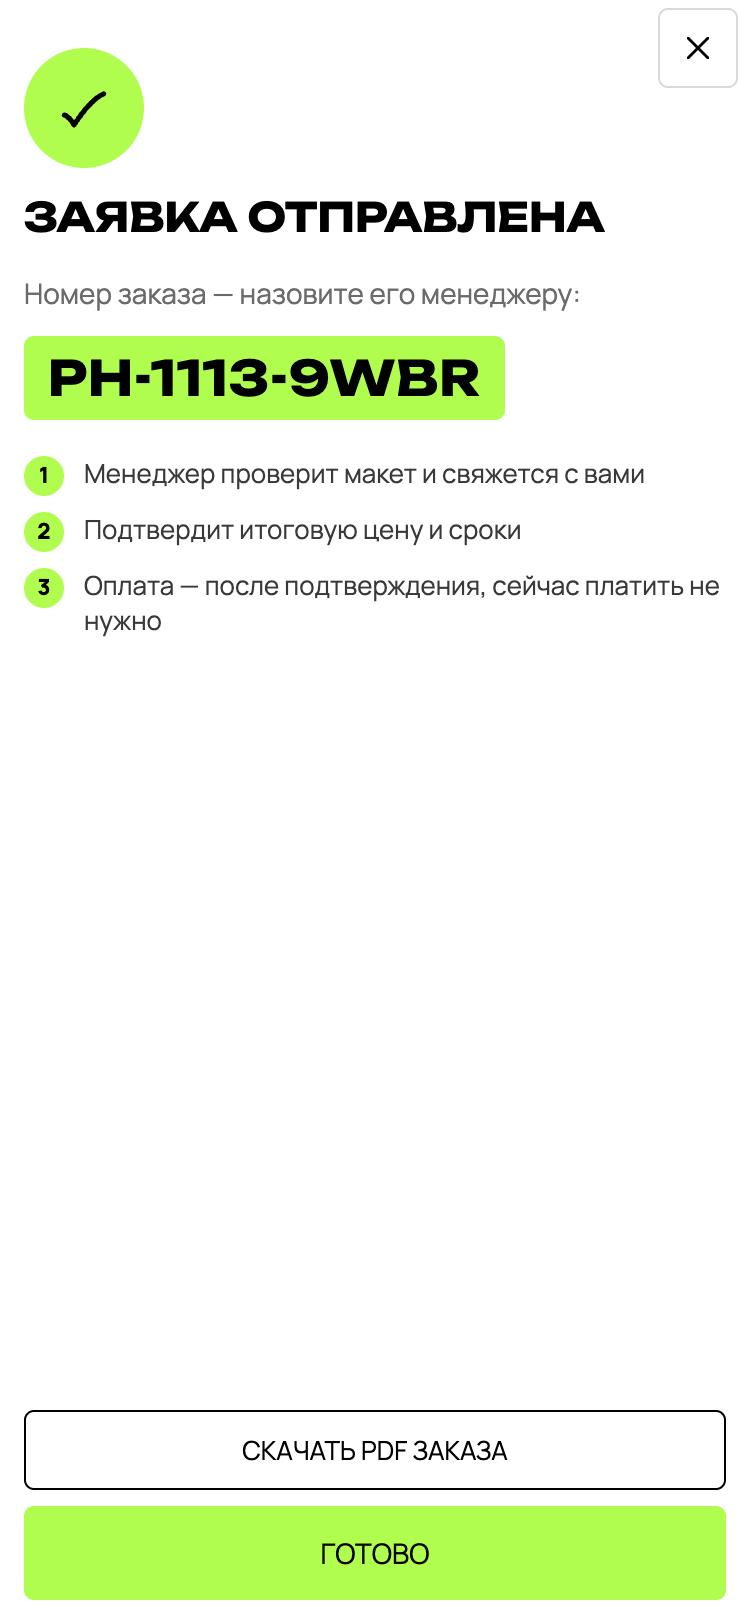
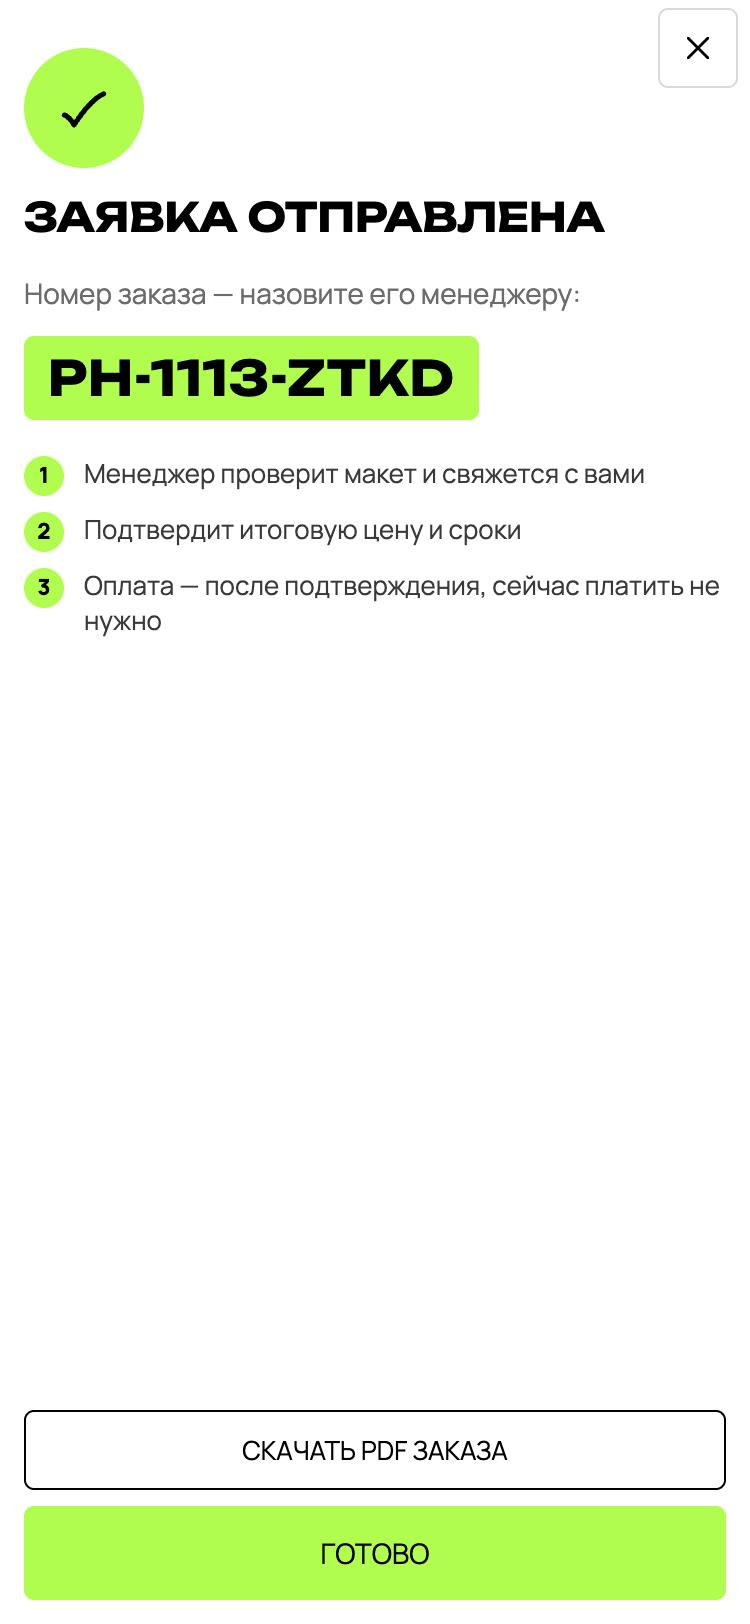
Приближение к слою после его переноса
На телефоне камера запоминала точку выбранного слоя и не сбрасывала её при
снятии выбора: слой, передвинутый и выбранный снова, оказывался за краем
холста. Теперь точка забывается, как только фокус снят.
Кадры docs/screens пересняты.

Changed region(s): [[0.368, 0.1847, 0.6747, 0.2771]]

diff --git a/src/features/constructor/canvas/DesignStage.tsx b/src/features/constructor/canvas/DesignStage.tsx
@@ -370,6 +370,8 @@ export function DesignStage({ apiRef, empty, zoom: zoomProp, onZoom, focus = fal
   // не гонялась за слоем, пока его тащат.
   // Там же — габарит принта в долях зоны: крупный принт должен поместиться в холст целиком (с кнопками).
   const anchorRef = useRef<{ key: string | null; v: number; w: number; h: number }>({ key: null, v: 0.5, w: 0, h: 0 });
+  // Фокус снят — забываем точку: слой могли передвинуть, при новом выборе камера встанет на его текущее место.
+  if (!focusOn) anchorRef.current.key = null;
   const focusAnchor = (key: string | null) => {
     if (anchorRef.current.key !== key) {
       let v = 0.5, w = 0, h = 0;
